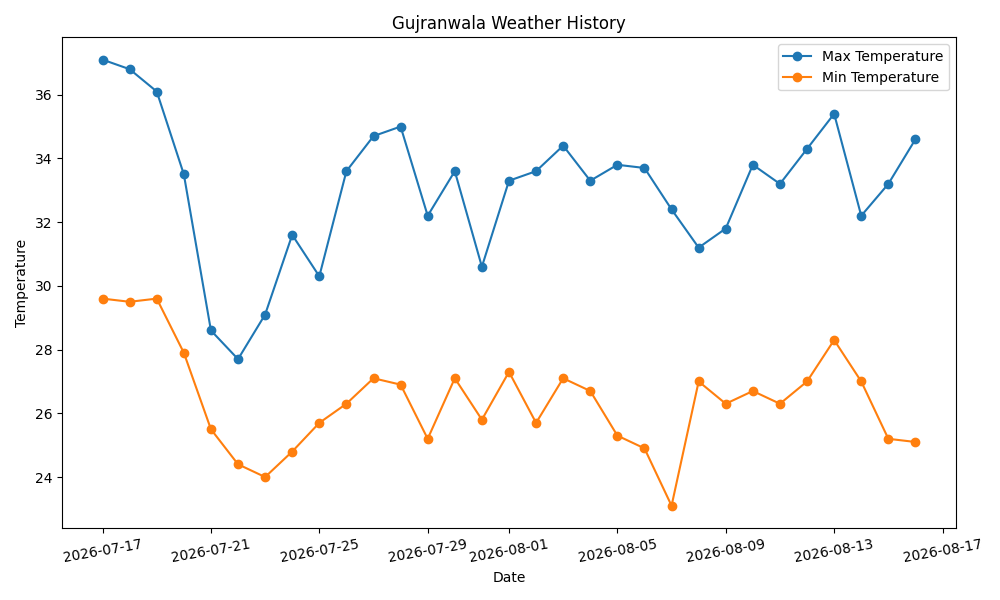
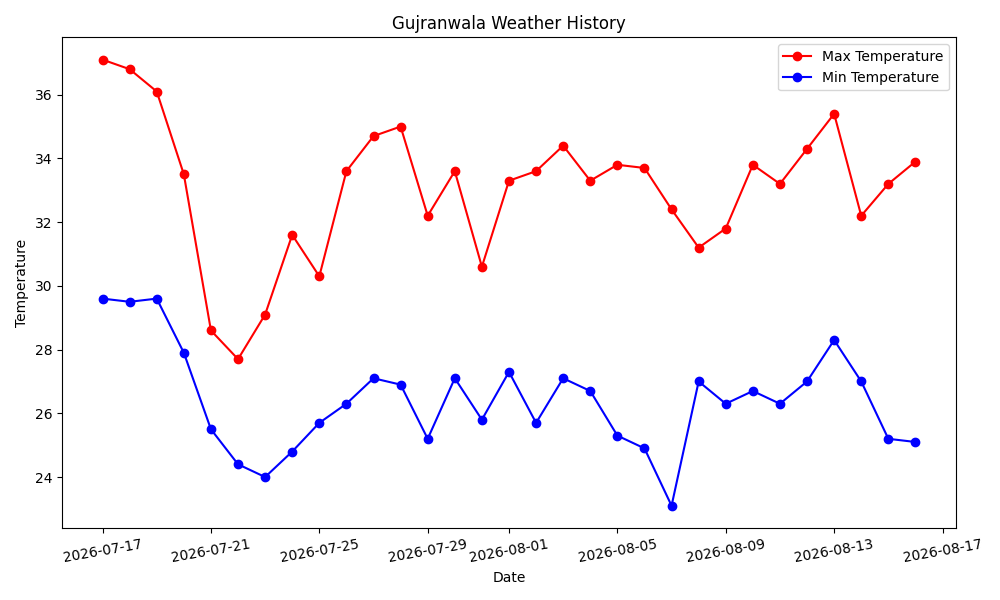
Fix API data fetching

diff --git a/main_code.py b/main_code.py
@@ -1,0 +1,68 @@
+import requests
+import pandas as pd
+import os
+from matplotlib import pyplot as plt
+from datetime import datetime, timedelta
+
+
+#--------------------------------------------------
+
+today = datetime.now()
+month_ago = today - timedelta(days=30)
+
+start_date = month_ago.strftime("%Y-%m-%d")
+end_date = today.strftime("%Y-%m-%d")
+
+latitude = 32.09979
+longitude = 74.182501
+
+#--------------------------------------------------
+
+url = "https://api.open-meteo.com/v1/forecast"
+params = {
+	"latitude": latitude,
+	"longitude": longitude,
+	"daily": ["temperature_2m_max", "temperature_2m_min"],
+	"timezone": "auto",
+	"start_date": start_date,
+	"end_date": end_date,
+}
+
+response = requests.get(url, params=params)
+data = response.json()
+
+#--------------------------------------------------
+
+daily_data = data["daily"]
+df = pd.DataFrame({
+    "Date" : daily_data["time"],
+    "Max_Temp" : daily_data["temperature_2m_max"],
+    "Min_Temp" : daily_data["temperature_2m_min"]
+})
+
+df["Date"] = pd.to_datetime(df["Date"])
+
+#--------------------------------------------------
+
+if not os.path.exists("data"):
+    os.makedirs("data", exist_ok=True)
+
+df.to_csv("data/daily-data.csv", index=False)
+
+#--------------------------------------------------
+
+plt.figure(figsize=(10, 6))
+plt.plot(df["Date"], df["Max_Temp"], marker = "o", color = 'red', label = "Max Temperature")
+plt.plot(df["Date"], df["Min_Temp"], marker = "o", color = 'blue', label = "Min Temperature")
+
+plt.xticks(rotation = 10)
+plt.xlabel("Date")
+plt.ylabel("Temperature")
+plt.title("Gujranwala Weather History")
+plt.legend()
+plt.tight_layout()
+
+#--------------------------------------------------
+
+plt.savefig("weather-chart.png")
+plt.show()
